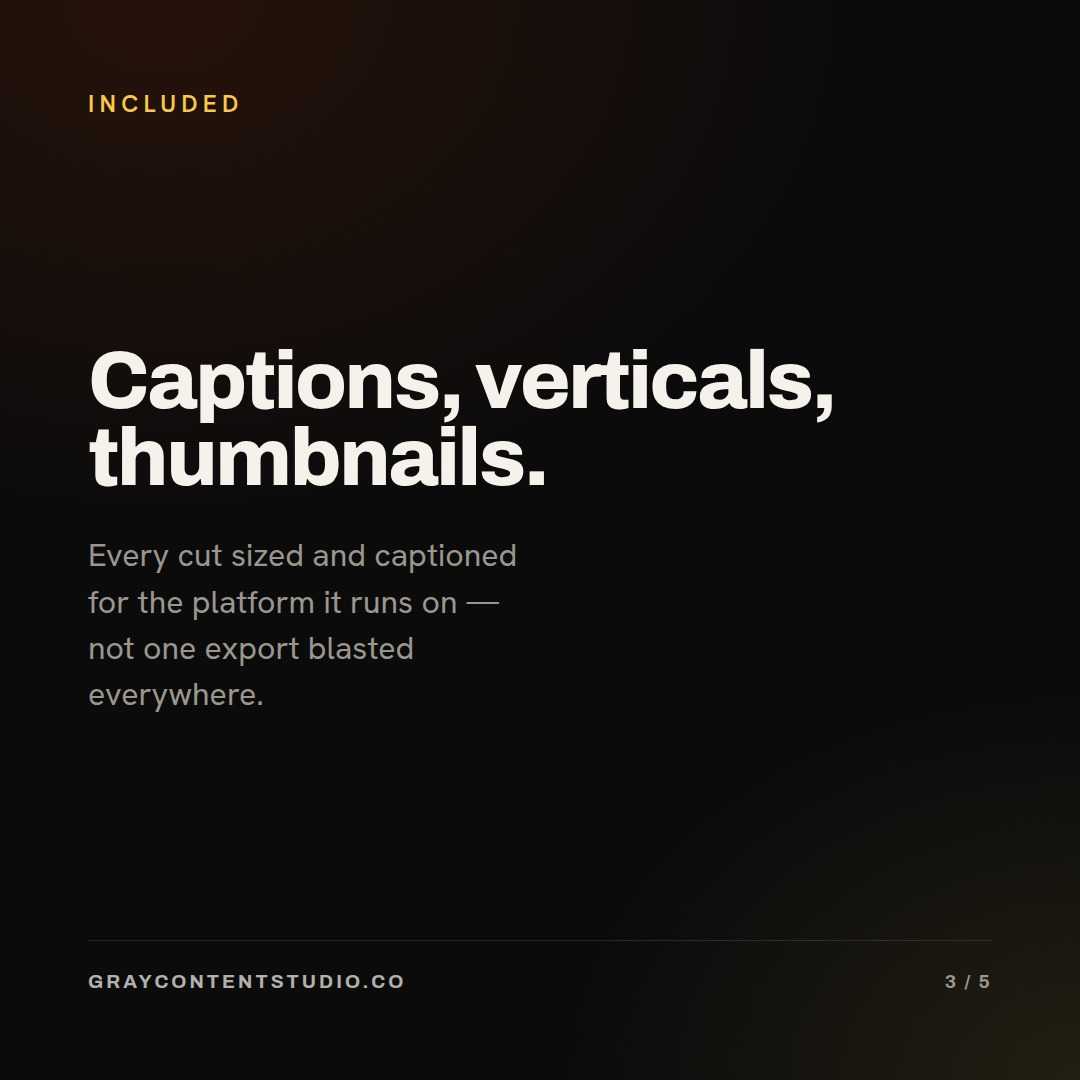
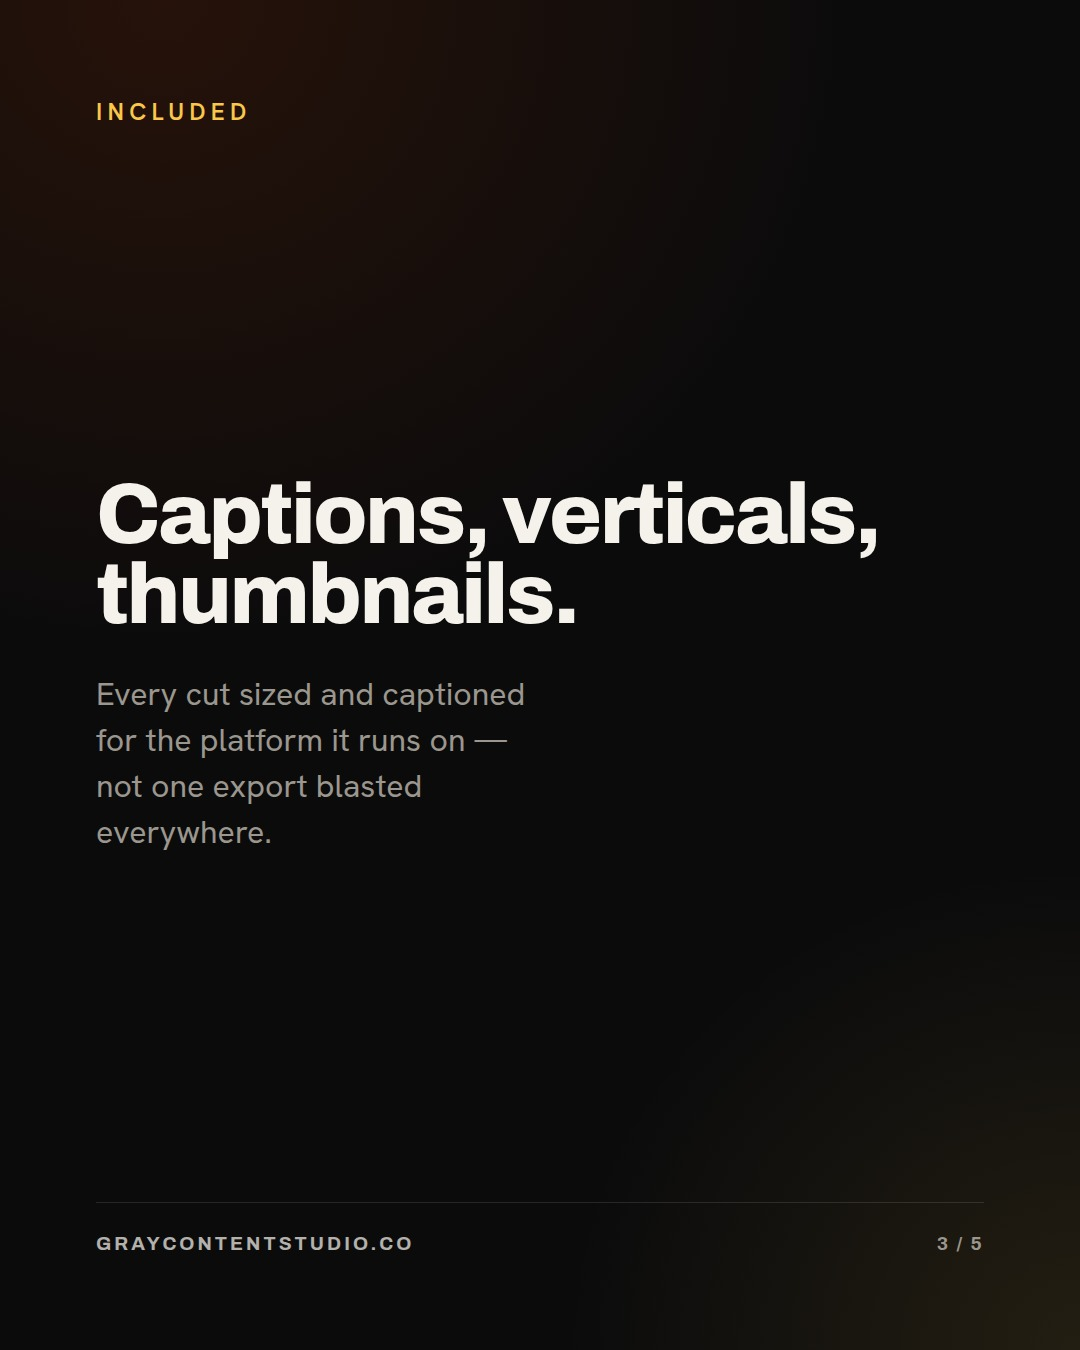
Rebuild Instagram assets at 4:5 to stop profile-grid cropping
Instagram's profile grid crops 1:1 posts to 4:5, trimming 108px from each side.
The slides used 88px side padding, so the crop cut past the padding and into the
headline and wordmark — "One shoot day" rendered as "ne shoot day" in the grid.

Renders the Instagram assets natively at 1080x1350 instead, which displays
uncropped in both the feed and the grid, and widens side padding to 96px.
Facebook, YouTube and reel frames are unchanged.

Claude-Session: https://claude.ai/code/session_01R3czXBiPVFxhneu7MPw7op

diff --git a/social-assets/build.py b/social-assets/build.py
@@ -65,12 +65,15 @@ def page(w: int, h: int, css: str, body: str) -> str:
 # COPY — edit here, then re-run
 # =========================================================================
 
-SQ = 1080  # Instagram square
+SQ = 1080   # Instagram width
+# Instagram crops 1:1 posts to 4:5 in the profile grid, trimming 108px from
+# each side and eating into left-aligned type. Build native 4:5 instead.
+IG_W, IG_H = 1080, 1350
 
 
 def carousel_slide(n, total, eyebrow, headline, sub, big=None, big_label=None,
                    footer=None):
-    """Instagram carousel slide, 1080x1080. Grid rows: header / body / footer."""
+    """Instagram carousel slide, 1080x1350 (4:5). Grid: header / body / footer."""
     if big:
         lab = f'<div class="biglab">{big_label}</div>' if big_label else ""
         body = (f'<div class="bigwrap"><div class="bignum display accent">{big}</div>'
@@ -82,9 +85,9 @@ def carousel_slide(n, total, eyebrow, headline, sub, big=None, big_label=None,
     if big and sub:
         body += f'<p class="sub muted">{sub}</p>'
     foot = footer or "graycontentstudio.co"
-    hsize = 96 if len(headline) < 30 else (82 if len(headline) < 42 else 70)
-    return page(SQ, SQ, f"""
-      .grid {{ height:100%; padding:88px; display:grid;
+    hsize = 100 if len(headline) < 30 else (86 if len(headline) < 42 else 74)
+    return page(IG_W, IG_H, f"""
+      .grid {{ height:100%; padding:96px; display:grid;
         grid-template-rows:auto 1fr auto; }}
       .eyebrow {{ font-size:24px; letter-spacing:.22em; }}
       .body {{ display:flex; flex-direction:column; justify-content:center;
@@ -183,11 +186,11 @@ def fb_card(eyebrow, headline, sub, logos):
 
 
 def square_credentials(eyebrow, headline, sub, logos):
-    """1:1 anchor card for Instagram, 1080x1080. Same argument as fb_card, but
-    the taller canvas lets the client chips breathe over two rows."""
+    """4:5 anchor card for Instagram, 1080x1350. Same argument as fb_card; the
+    taller canvas lets the client chips breathe."""
     chips = "".join(f'<span class="chip">{l}</span>' for l in logos)
-    return page(SQ, SQ, f"""
-      .grid {{ height:100%; padding:88px; display:grid;
+    return page(IG_W, IG_H, f"""
+      .grid {{ height:100%; padding:96px; display:grid;
         grid-template-rows:auto 1fr auto; }}
       .eyebrow {{ font-size:24px; letter-spacing:.22em; }}
       .body {{ display:flex; flex-direction:column; justify-content:center;
@@ -245,22 +248,22 @@ def reel_frame(label, headline, sub):
 # --- the batch ------------------------------------------------------------
 ASSETS = {
     # Instagram carousel: sells the SOCIAL_LAYER bundle
-    "ig-carousel-1": (SQ, SQ, carousel_slide(
+    "ig-carousel-1": (IG_W, IG_H, carousel_slide(
         1, 5, "Gray Content Studio",
         "One shoot day. A month of content.",
         "How a single half-day at your business becomes four weeks of posts.")),
-    "ig-carousel-2": (SQ, SQ, carousel_slide(
+    "ig-carousel-2": (IG_W, IG_H, carousel_slide(
         2, 5, "What you get", "", None, big="4",
         big_label="platform-native reels")),
-    "ig-carousel-3": (SQ, SQ, carousel_slide(
+    "ig-carousel-3": (IG_W, IG_H, carousel_slide(
         3, 5, "Included", "Captions, verticals, thumbnails.",
         "Every cut sized and captioned for the platform it runs on — "
         "not one export blasted everywhere.")),
-    "ig-carousel-4": (SQ, SQ, carousel_slide(
+    "ig-carousel-4": (IG_W, IG_H, carousel_slide(
         4, 5, "Starting at", "",
         "Strategy session, half-day shoot, four finished reels.",
         big="$1,400", big_label="per month")),
-    "ig-carousel-5": (SQ, SQ, carousel_slide(
+    "ig-carousel-5": (IG_W, IG_H, carousel_slide(
         5, 5, "Richmond, VA",
         "Text us. We'll send the reel.",
         "(540) 558-5894 · graycontentstudio.co")),
@@ -276,7 +279,7 @@ ASSETS = {
         stat=("1.5s", "to earn the next second"))),
 
     # Instagram 1:1 anchor card — same wedge, square for the IG feed
-    "ig-credentials": (SQ, SQ, square_credentials(
+    "ig-credentials": (IG_W, IG_H, square_credentials(
         "Richmond, Virginia",
         "Broadcast-grade video. Small-business pricing.",
         "Campaign work for Fortune 500 brands — now building content engines "

diff --git a/social-assets/README.md b/social-assets/README.md
@@ -39,6 +39,13 @@ Do not reach for the ffmpeg bundled with Playwright to do this conversion — th
 build ships a PNG *encoder* but no PNG *decoder*, so it rejects the very files
 this script produces.
 
+## Instagram aspect ratio
+
+Instagram assets are **1080×1350 (4:5)**, not square. The profile grid crops 1:1
+posts to 4:5, trimming 108px off each side — which clipped the left-aligned type
+on the first version of these. Native 4:5 renders uncropped in both the feed and
+the grid, and occupies more vertical space in-feed.
+
 ## Renderer gotcha
 
 `build.py` uses `headless_shell`, **not** `chrome --headless=new`. The latter
@@ -51,8 +58,8 @@ wordmark is visible before shipping anything.
 
 | File | Size | Use |
 |---|---|---|
-| `ig-credentials.png` | 1080×1080 | Instagram anchor post — square cut of the credentials card |
-| `ig-carousel-1..5.png` | 1080×1080 | Instagram carousel — sells the monthly bundle |
+| `ig-credentials.png` | 1080×1350 | Instagram anchor post — square cut of the credentials card |
+| `ig-carousel-1..5.png` | 1080×1350 | Instagram carousel — sells the monthly bundle |
 | `yt-cost.png` | 1280×720 | Thumbnail for the video-production-cost post |
 | `yt-brandfilm.png` | 1280×720 | Thumbnail for the brand-film post |
 | `yt-shortform.png` | 1280×720 | Thumbnail for the short-form-strategy post |
